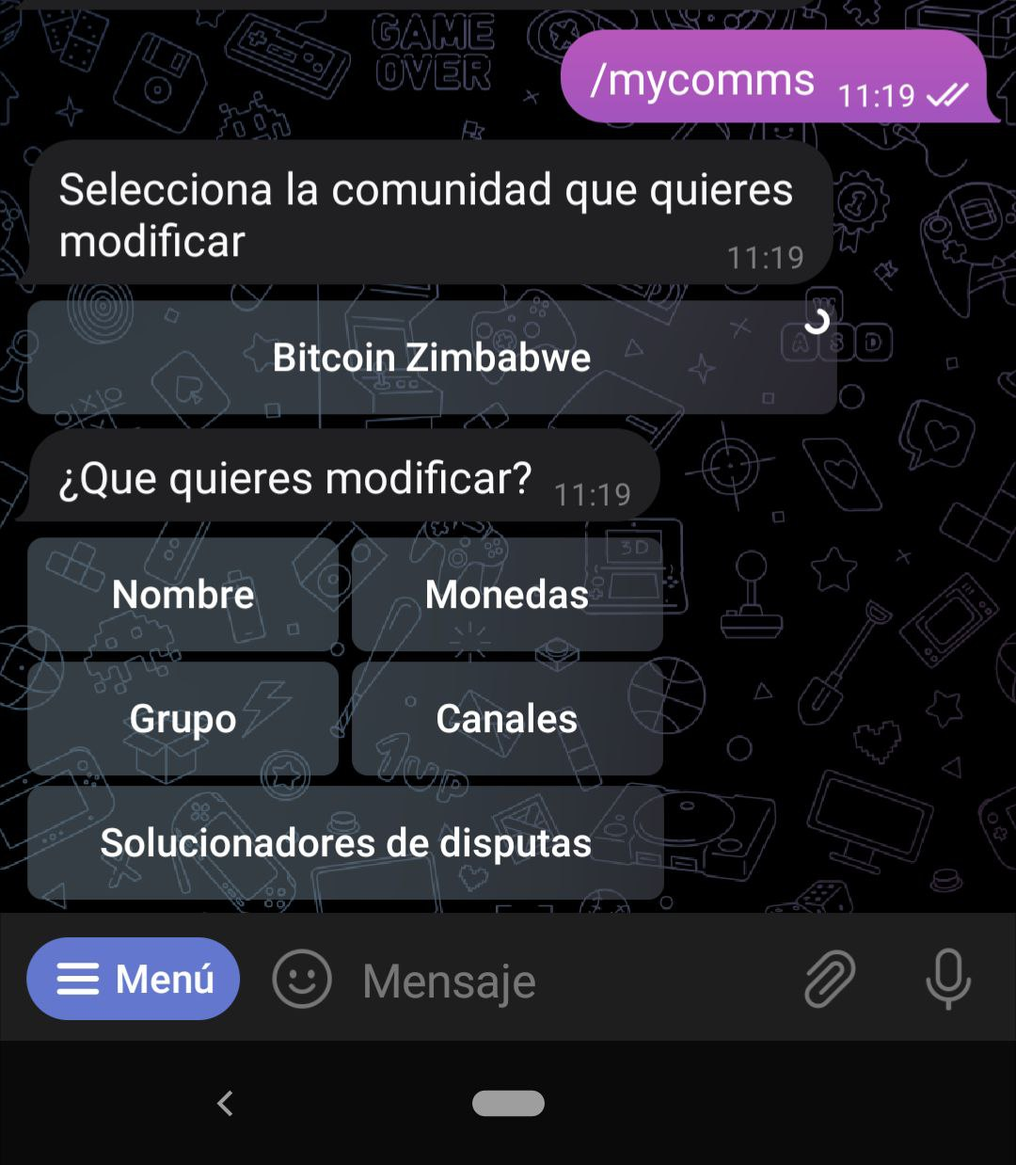
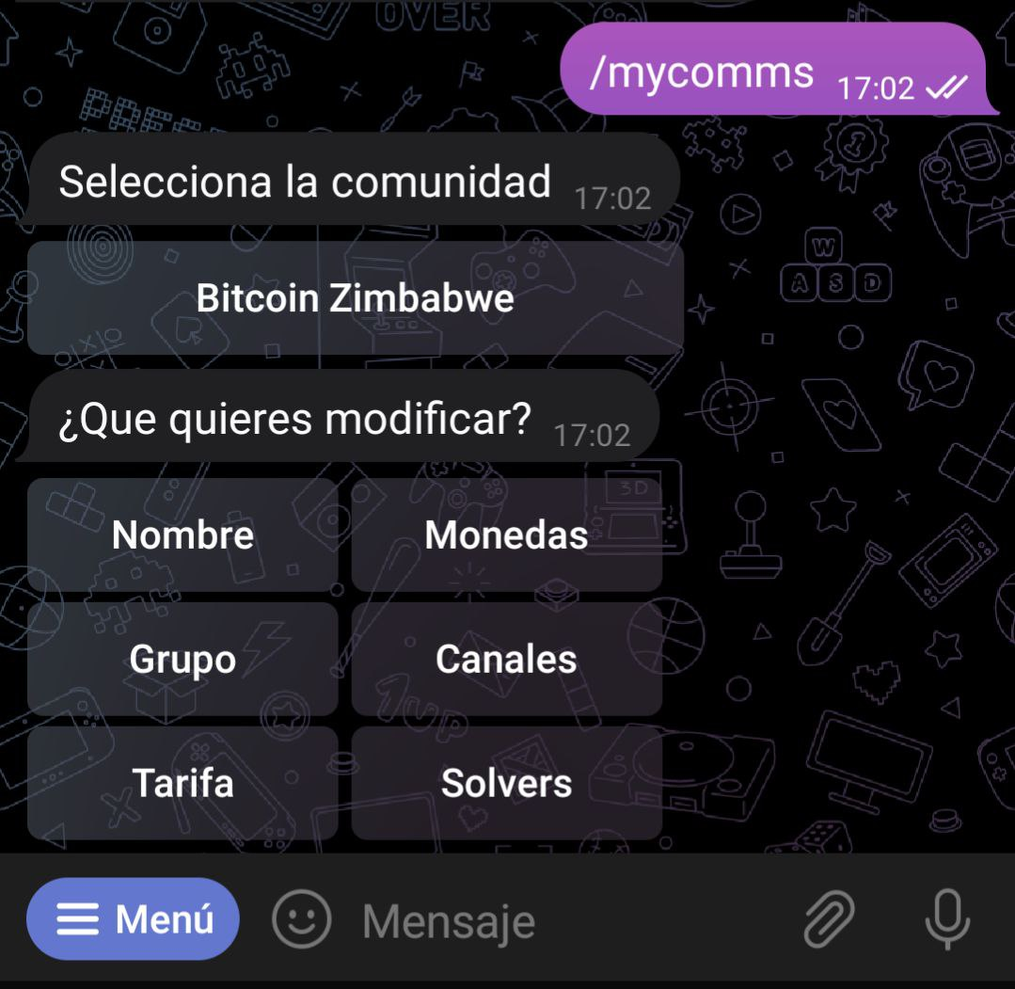
Add communities posts

diff --git a/content/blog/lnp2pbot-communities-tutorial.es.md b/content/blog/lnp2pbot-communities-tutorial.es.md
@@ -1,0 +1,156 @@
++++
+title = "Tutorial para utilizar las Comunidades en @LNp2pBot"
+description = "Poder para la gente"
+date = 2022-05-26
++++
+
+![Comunidades en @lnp2pBot](/images/communities.jpg)
+
+Finalmente las comunidades están aquí 🥳 y en este tutorial explicaré como utilizarlas.
+
+## Incentivo
+
+Antes de explicar como funciona creo que es importante explicar el sistema de incentivos de las comunidades, desde su creación [@LNp2pBot](https://t.me/lnp2pbot) le ha cobrado una tarifa al vendedor por orden completada con éxito, esta tarifa actualmente es de 0.6%, ahora, si la orden fue creada en una comunidad, el bot divide esta tarifa, una parte queda para el bot y la otra será la ganancia de la comunidad.
+
+Vamos a explicar esto en detalle con varios ejemplos:
+
+Supongamos que hemos creado la comunidad **lnp2pBot Madagascar**, la **tarifa de la comunidad** es `variable` y se le indica como un porcentaje al bot, así que el valor debe estar entre 0 y 100, para hacerlo más fácil de visualizar la `tarifa máxima` del bot la fijaremos en 1%.
+
+#### Ejemplo 1:
+
+```
+Tarifa máxima del bot: 1% (relativo al monto de la orden)
+Tarifa de la comunidad: 100%
+Orden con monto = 100000 sats
+1% = 1000 sats
+Sobre este 1% vamos a trabajar
+70% de 1000 sats irán al bot = 700
+30% de 1000 sats irán a la comunidad = 300
+
+Tarifa total que paga el vendedor 1000 sats
+```
+
+En una comunidad que cobre el 100% de su tarifa, el bot dejará de cobrar el 100% de su tarifa y bajará al 70%, el 30% restante es lo que va a la comunidad.
+
+#### Ejemplo 2:
+
+```
+Tarifa máxima del bot: 1%
+Tarifa de la comunidad: 50%
+Orden con monto = 100000 sats
+1% = 1000 sats
+70% de 1000 sats irán al bot = 700
+15% (la mitad de 30%) de 1000 sats irán a la comunidad = 150
+
+Tarifa total que paga el vendedor 850 sats
+```
+
+En este ejemplo quien se beneficia es el vendedor y podría elegir vender en esta comunidad ya que tiene que pagar una tarifa menor.
+
+#### Ejemplo 3:
+
+```
+Tarifa máxima del bot: 1%
+Tarifa de la comunidad: 0%
+Orden con monto = 100000 sats
+1% = 1000 sats
+70% de 1000 sats irán al bot = 700
+0% de 1000 sats irán a la comunidad = 0
+
+Tarifa total que paga el vendedor 700 sats
+```
+
+En este caso el vendedor obtiene un beneficio mayor.
+
+Para contrarrestar lo explicado pongo el mismo ejemplo pero sin comunidad, es decir, cualquier orden que el usuario tome del canal donde van todas las órdenes @p2pLightning.
+
+#### Ejemplo 4:
+
+```
+Tarifa máxima del bot: 1%
+Orden con monto = 100000 sats
+1% = 1000 sats
+100% de 1000 sats irán al bot = 1000
+
+Tarifa total que paga el vendedor 1000 sats
+```
+
+Acá el vendedor paga la tarifa completa al bot así que probablemente prefiera encontrar o crear una comunidad para su moneda local.
+
+## Creando una comunidad
+
+Para crear una comunidad debemos escribir o seleccionar del menú el comando `/community`, el bot te irá guiando en el proceso como lo expliqué en este [post](https://grunch.dev/es/blog/lnp2pbot-communities/) que si no lo has leido, te recomiendo que lo hagas antes de continuar esta lectura, es importante que sepas que tanto tu como el bot deben ser administradores tanto en el grupo de la comunidad como en los canales vinculados a la misma.
+
+![Creando una comunidad](/images/community-menu.jpg)
+
+## ¿Cómo puedo saber las comunidades que trabajan con mi moneda?
+
+Para esto tenemos un nuevo comando `/findcomms`, el cual recibe como parámetro el código de moneda, puede ser un código estándar **ISO 4217**, pero tambien pueden haber comunidades que operan sats contra alguna otra criptomoneda, no hay ningún tipo de limitación para el usuario, en la siguiente imagen podemos ver el resultado de `/findcomms usd`.
+
+![Buscando comunidades](/images/findcomms.jpg)
+
+## Eligiendo una comunidad
+
+Ahora solo seleccionamos la comunidad en la que queremos participar y el bot nos mostrará la cantidad de órdenes exitosas y el volúmen de comercio operado en las últimas 24 horas en esa comunidad, abajo vemos un botón que dice **Utilizar por defecto**, al tocar ese botón ya estamos participando en esa comunidad.
+
+![Seleccionando](/images/comm-detail.jpg)
+
+Ahora solo tenemos que crear una orden escribiendo el comando `/buy` o `/sell` dependiendo de lo que queramos y seguir las instrucciones del bot.
+
+![Creando una orden](/images/sell.jpg)
+
+Si queremos salir de la comunidad utilizamos comando `/setcomm off` como lo explicamos en [Comunidades en @LNp2pBot](https://grunch.dev/es/blog/lnp2pbot-communities/)
+
+## Administrando tu comunidad
+
+Para mantener una comunidad sana el admin debe estar rodeado de gente responsable que lo ayude con la tarea, aquí es donde entran los **solvers**.
+
+Los solvers simplemente son usuarios que se encargan de resolver las disputas y mantener el orden en la comunidad, una comunidad debe tener al menos un solver, para esto no hay ningún tipo de requisito, el administrador es quién los designa al crear la comunidad y puede agregar o quitar en cualquier momento, un administrador puede ser solver su propia comunidad.
+
+El admin también puede modificar cualquier campo de la comunidad en cualquier momento, por ejemplo puede comenzar una comunidad con un solo canal para que los usuarios puedan visualizar las compras y ventas, pero a medida que la comunidad crece puede cambiar esto y utilizar dos canales, uno para visualizar las compras y otro para las ventas, cambiar la tarifa de la comunidad cuando lo considere necesario.
+
+## Resolviendo disputas
+
+Cuando un usuario inicia una disputa un mensaje será enviado por el bot al canal de las disputas, solo **solvers** podrán tomarlas tocando el botón **Take dispute**.
+
+![Disputa](/images/dispute.jpg)
+
+![Detalle de la disputa](/images/dispute-detail.jpg)
+
+Una vez el **solver** toma la disputa el bot le enviará toda la información necesaria para resolver la disputa, pero también se deberá comunicar con cada parte, entender que pasó y completar la orden o cancelarla, para esto tiene dos nuevos comandos.
+
+### Completando una orden
+
+Muchas disputas se inician porque una de las dos partes tardó en responder un mensaje, pero también puede haber un vendedor que quiera quedarse con el dinero fiat y que le retornen los sats, para estos casos el **solver** puede ejecutar el comando `/settleorder`, lo que hace este comando es que acepta el pago del vendedor y automáticamente envía los sats al comprador.
+
+![Completando una orden](/images/settleorder.png)
+
+### Cancelando una orden
+
+El **solver** puede cancelar la orden lo cual retorna los sats al vendedor si lo considera correcto, para esto debe ejecutar el comando `/cancelorder` como podemos apreciar en la siguiente imagen.
+
+![Cancelando una orden](/images/cancelorder.png)
+
+### Eliminando disputas
+
+Cada vez que un usuario inicia una disputa tanto quien inició la disputa como la contraparte quedan envueltos en la misma, hasta que no sepamos que pasó los dos están relacionados por una disputa, al resolver la disputa el solver puede eliminarle esta disputa a uno de los usuarios o incluso a los dos si lo necesita con el comando `/deldispute username id-de-orden`.
+
+![Eliminando disputa](/images/deldispute.png)
+
+## Expulsar a un usuario de la comunidad
+
+Si un solver lo considera necesario puede expulsar a un usuario de la comunidad con el comando `/ban` seguido de su username.
+
+**_IMPORTANTE:_** Para ejecutar los comandos de administración de comunidades siempre tienes que tener seleccionada **por defecto** la comunidad con la que deseas trabajar, puedes hacerlo con tocando el botón **Utilizar por defecto** que se muestra luego de ejecutar `/findcomms`, tambien lo puedes hacer con el comando `/setcomm @grupo`, un grupo de telegram obtiene su **@grupo** solo cuando son públicos.
+
+## Retiro de las ganancias
+
+En las próximas semanas los administradores podrán retirar las ganancias de sus comunidades, mientras más órdenes se procesen en su comunidad mayor será el monto de sats a retirar, mantente atento que en cualquier momento verás la opción.
+
+## Conclusiones y agradecimientos
+
+Desde hace mucho tiempo he estado pensando en cómo hacer que el bot escale, se lo comenté a mucha gente esperando un **ahá moment**, hasta que llegó el momento, la idea de las comunidades la escuché por primera vez hablando con mi amiga [Ximena](https://twitter.com/XTezanosP) quién me habló de la confianza y a partir de sus ideas comencé a construir lo que tenemos hoy, otra persona que ha aportado ideas que me han ayudado en el desarrollo de las comunidades es mi amigo [Manu](https://twitter.com/manuferraritano).
+
+Muchas más personas han colaborado con el proyecto, cada quién a su manera, a todos gracias totales 🤖.
+
+Las comunidades en @lnp2pbot siguen su evolución, como ha ocurrido con el bot desde sus primeros dias, no estoy interesado en una adopción pronunciada, considero mucho más sano el crecimiento orgánico y parece ser que esta será la tendencia con el uso de las comunidades, esperamos tu feedback en [github](https://github.com/grunch/p2plnbot/issues) o en nuestro grupo de [telegram](https://t.me/lnp2pbotHelp).

diff --git a/content/blog/lnp2pbot-communities.en.md b/content/blog/lnp2pbot-communities.en.md
@@ -3,38 +3,45 @@ title = "Communities in @LNp2pBot"
 description = "Power to the people"
 date = 2022-05-04
 +++
+
 ![Communities in @lnp2pBot](/images/communities.jpg)
 
 Since we started this project we wanted to start operating with [@LNp2pBot](https://t.me/lnp2pbot) without making much noise, it was essential to test the bot in a small community before showing the world a final product, that's why We started working with the Spanish-speaking lightning community, which received the project in a very good way. The feedback received has allowed the bot to grow and improve day by day.
 
 ## Displaying user orders
+
 As the project started with a small group in which everyone shared the same language, a channel to view the orders was not a problem, so we started solving priority problems by letting the users themselves be the gauge of what was needed and when. develop it, but the time has come when the number of published orders is very large, which has led many users to ask themselves the same question.
 
 ## How can I filter the orders by my currency?
+
 One of the most recurring questions from users is how can I filter orders by my currency? There are several ways to solve this, there is always the temptation to do it the easy way and ask the developer to create a new channel and then redirect all orders of a specific currency to the new channel, but what seems easy at first glance leads to other problems.
 
 By creating currency channels centrally, the `admin` must take care of the needs of users in the most remote places on the planet, there are 175 fiat currencies globally, some countries share currencies, so potentially at some point it would be necessary to create manually more than 175 channels, but the problem remains that users must ask for permission to use their currency in a specific channel using the bot, **@lnp2pBot** faithfully follows the Bitcoin philosophy and although it is linked to telegram we seek to be "`permissionless`", without custody and above all **without KYC**.
 
 ## Communities
-This is where the communities come in, now users have much more freedom of maneuver, from now on they will be able to create and manage their own communities to buy and sell sats, limiting these operations to the fiat currencies used in the region in an autonomous way, but... *with great power comes great responsibility*, this means from the moment users start working in their own communities they will also have to manage the possible disputes that occur.
+
+This is where the communities come in, now users have much more freedom of maneuver, from now on they will be able to create and manage their own communities to buy and sell sats, limiting these operations to the fiat currencies used in the region in an autonomous way, but... _with great power comes great responsibility_, this means from the moment users start working in their own communities they will also have to manage the possible disputes that occur.
 
 ## Trust model
+
 The model we have chosen to resolve disputes is that of trust, this seems paradoxical for those of us who work with Bitcoin because we have always advocated "`trustless`" systems, and the truth is that the goal is always to develop systems where we do not have to trust anyone, but after thinking a lot about dispute resolution systems, we had to accept that you always have to trust someone for it.
 
 ## Benevolent Dictator
+
 Having accepted that to resolve a dispute you have to trust someone, our focus shifted to, how do we make there less incentive to create disputes? in this the community made several proposals and the one we are developing because at the time of writing this text it is not ready yet, is to use the figure of the benevolent dictator, this is a dictator that people accept and trust that their decisions are made for the good of the community.
 
 The benevolent dictator is the creator of the community, the benevolent dictator is the one who can add dispute solvers, these `solvers` are publicly known by the community, by this I mean their telegram username, and the community will take care of denouncing if these users are doing their work correctly or not, in a community where the benevolent dictator correctly selects the solvers everything will work fine, in one where the dictator makes mistakes his `subjects` will go to another community or create a new one, in this way we delegate this responsibility to the communities.
 
 ## How do I create a community?
+
 To create a community simply write the command `/community`, after this the bot will ask you to indicate the following:
 
-* **Community Name**: A name to identify your community.
-* **Currencies**: Fiat currencies that can operate in the community, these must be entered separately from a blank space, for example for a Uruguayan community "UYU USD" can be added.
-* **Community group**: This is the main group where community members meet, in this group both @lnp2pbot and the one who is creating the community must be administrators, users can create orders by sending bot commands in this group.
-* **Channel or channels order book**: The orders will be published where we indicate to the bot, if we enter a single channel, the purchases and sales will be published in that channel, but if you indicate two channels, the purchases will be will publish in the first and sales in the second, the channels are entered separated with a blank space, both the bot and the creator of the community must be administrators of the channels.
-* **Solvers**: We must indicate the usernames of the users who will be in charge of resolving the disputes, separated by a blank space.
-* **Channel for disputes**: In this channel the bot will publish when a user initiates a dispute, both the bot and the creator of the community must be administrators of the channel.
+- **Community Name**: A name to identify your community.
+- **Currencies**: Fiat currencies that can operate in the community, these must be entered separately from a blank space, for example for a Uruguayan community "UYU USD" can be added.
+- **Community group**: This is the main group where community members meet, in this group both @lnp2pbot and the one who is creating the community must be administrators, users can create orders by sending bot commands in this group.
+- **Channel or channels order book**: The orders will be published where we indicate to the bot, if we enter a single channel, the purchases and sales will be published in that channel, but if you indicate two channels, the purchases will be will publish in the first and sales in the second, the channels are entered separated with a blank space, both the bot and the creator of the community must be administrators of the channels.
+- **Solvers**: We must indicate the usernames of the users who will be in charge of resolving the disputes, separated by a blank space.
+- **Channel for disputes**: In this channel the bot will publish when a user initiates a dispute, both the bot and the creator of the community must be administrators of the channel.
 
 ![Creating a community](/images/community01.jpg)
 
@@ -45,13 +52,16 @@ To modify any field we simply execute the `/mycomms` command and the bot will sh
 ![Modifying a community](/images/mycomms.jpg)
 
 ## Creating orders
+
 The operation of the bot remains exactly the same, by default it creates the orders in a global channel, but since we have created a new community we want our order to be published in the channel that we have associated with the community, there are two ways to create an order in the new community.
 
 1. We enter the community group, in the case of our example it would be `@p2pZimbabwe` and within the group we execute the usual command, `/sell` or `/buy`.
 2. If we want something more private, we indicate our default community to the bot by executing the command `/setcomm @p2pZimbabwe`, from that moment all the orders that you create in private will go to the corresponding channel linked with `@p2pZimbabwe`, you can change your default community whenever you want with `/setcomm @MuchMoreCoolCommunity` or go back to the previous state, where you didn't have a default community by running `/setcomm off`.
 
 ## What's missing?
+
 Most of it is done, but it's not finished yet, the dispute sub-system is still to be finished, a command to show the communities for coins to the users is missing, and probably many other things are missing that I don't have in mind yet but they will be genuine user requirements, all this will be ready in the next few weeks.
 
 ## Conclusions
+
 The communities in @lnp2pbot is in experimental mode, so we hope that there will be bugs to fix, but as it has happened since the beginning we know that we will receive the appropriate feedback from our users to improve what we have developed so far, the next step is that the users create their own communities and everyone participates in the community(s) that suits them best, we await your feedback on [github](https://github.com/grunch/p2plnbot/issues) or in our group of [telegram](https://t.me/lnp2pbotHelpEn).

diff --git a/content/blog/lnp2pbot-communities-tutorial.en.md b/content/blog/lnp2pbot-communities-tutorial.en.md
@@ -1,0 +1,156 @@
++++
+title = "@LNp2pBot Communities tutorial"
+description = "Poder para la gente"
+date = 2022-05-26
++++
+
+![Communities in @lnp2pBot](/images/communities.jpg)
+
+Finally the communities are here 🥳 and in this tutorial I will explain how to use it.
+
+## Incentive
+
+Before explaining how it works, I think it is important to explain the community incentive system, since its creation [@LNp2pBot](https://t.me/lnp2pbot) has charged the seller a fee for successfully completed order, this fee is currently 0.6%, now, if the order was created in a community, the bot divides this fee, one part remains for the bot and the other part will be the profit of that community.
+
+Let's explain this in detail with several examples:
+
+Suppose we have created the community **lnp2pBot Madagascar**, the **community fee** is _variable_ and is indicated as a percentage to the bot, so the value must be between 0 and 100, to make it easier to visualize the `max fee` of the bot we will set it to 1%.
+
+#### Example 1:
+
+```
+Maximum bot fee: 1% (relative to the amount of the order)
+Community fee: 100%
+Order with amount = 100000 sats
+1% = 1000 sat
+On this 1% we will work
+70% of 1000 sats will go to the bot = 700
+30% of 1000 sats will go to the community = 300
+
+Total fee paid by seller 1000 sats
+```
+
+In a community that charges 100% of your fee, the bot will stop charging 100% of your fee and go down to 70%, the remaining 30% is going to the community.
+
+#### Example 2:
+
+```
+Max bot fee: 1%
+Community fee: 50%
+Order with amount = 100000 sats
+1% = 1000 sat
+70% of 1000 sats will go to the bot = 700
+15% (half of 30%) of 1000 sats will go to the community = 150
+
+Total fee paid by seller 850 sats
+```
+
+In this example, it is the seller who benefits and could choose to sell in this community since he has to pay a lower fee.
+
+#### Example 3:
+
+```
+Max bot fee: 1%
+Community fee: 0%
+Order with amount = 100000 sats
+1% = 1000 sat
+70% of 1000 sats will go to the bot = 700
+0% of 1000 sats will go to the community = 0
+
+Total fee paid by seller 700 sats
+```
+
+In this case, the seller obtains a higher profit.
+
+To counteract what has been explained, I give the same example but without community, that is, any order that the user takes from the global channel @p2pLightning.
+
+#### Example 4:
+
+```
+Max bot fee: 1%
+Order with amount = 100000 sats
+1% = 1000 sat
+100% of 1000 sats will go to the bot = 1000
+
+Total fee paid by seller 1000 sats
+```
+
+Here the seller pays the full fee to the bot so you probably prefer to find or create a community.
+
+## Creating a community
+
+To create a community we must write or select the command `/community` from the menu, the bot will guide you through the process as I explained in this [post](https://grunch.dev/es/blog/lnp2pbot-communities/) that if you have not read it, I recommend that you do so before continuing this reading, it is important that you know that both you and the bot must be administrators in the community group and in the channels linked to it.
+
+![Creating a community](/images/community-menu.jpg)
+
+## How can I know the communities that work with my currency?
+
+For this we have a new command `/findcomms`, which receives the currency code as a parameter, it can be a standard code **ISO 4217**, but there can also be communities that operate sats against some other cryptocurrency, there is no type of limitation for the user, in the following image we can see the result of `/findcomms usd`.
+
+![Finding communities](/images/findcomms.jpg)
+
+## Eligiendo una comunidad
+
+Now we select the community in which we want to participate and the bot will show us the number of successful orders and the volume traded in the last 24 hours in that community, below we see a button that says **Use by default**, when touching that button we are already participating in that community.
+
+![Choosing](/images/comm-detail.jpg)
+
+Now we just have to create an order by typing the `/buy` or `/sell` command depending on what we want and follow the bot's instructions.
+
+![Creting an order](/images/sell.jpg)
+
+If we want to leave the community we use the `/setcomm off` command as explained in [Communities in @LNp2pBot](https://grunch.dev/es/blog/lnp2pbot-communities/)
+
+## Managing your community
+
+To maintain a healthy community, the admin must be surrounded by responsible people who help him with the task, this is where the **solvers** come in.
+
+Solvers are simply users who are in charge of resolving disputes and maintaining order in the community, a community must have at least one solver, for this there is no type of requirement, the administrator is the one who designates them when creating the community and can add or remove at any time, an administrator can be a solver in his own community.
+
+The admin can also modify any field of the community at any time, for example you can start a community with a single channel so that users can view purchases and sales, but as the community grows you can change this and use two channels, one to view purchases and one for sales, change the community rate when you deem it necessary.
+
+## Solving disputes
+
+When a user initiates a dispute, a message will be sent by the bot to the dispute channel, only **solvers** will be able to take them by tapping on the **Take dispute** button.
+
+![Dispute](/images/dispute.jpg)
+
+![Dispute detail](/images/dispute-detail.jpg)
+
+Once the **solver** takes the dispute, the bot gave him all the necessary information to resolve the dispute, but he must also communicate with each party, understand what happened and complete the order or cancel it, for this he has two new commands.
+
+### Completing an order
+
+Many disputes start because one of the two parties was slow to respond to a message, but there may also be a seller who wants to keep the fiat money and have the sats returned, for these cases the **solver** can execute the command ` /settleorder`, what this command does is it accepts the payment from the seller and automatically sends the sats to the buyer.
+
+![Completing an order](/images/settleorder.png)
+
+### Canceling an order
+
+The **solver** can cancel the order which returns the sats to the seller if it considers it correct, for this it must execute the `/cancelorder` command as we can see in the following image.
+
+![Canceling an order](/images/cancelorder.png)
+
+### Eliminating disputes
+
+Every time a user initiates a dispute, both the person who initiated the dispute and the counterparty are involved in it, until we know what happened, the two are related by a dispute, by resolving the dispute the solver can eliminate this dispute to one of the users or even both if is necessary, this can be done with `/deldispute username order-id`.
+
+![Eliminating disputes](/images/deldispute.png)
+
+## Ban a user from the community
+
+If a solver deems it necessary, they can ban a user from the community with the command `/ban` followed by their username.
+
+**_IMPORTANT:_** To execute the community administration commands you always have to have selected **by default** the community with which you want to work, you can do it by tapping the button **Use by default** that is shown after executing `/findcomms`, you can also do it with the `/setcomm @group` command, a telegram group gets their **@group** only when they are public.
+
+## Withdrawal of earnings
+
+In the coming weeks the administrators will be able to withdraw the profits from their communities, the more orders are processed in their community, the greater the amount of sats to be withdrawn, stay tuned that at any time you will see the option.
+
+## Conclusions and thanks
+
+For a long time I have been thinking about how to make the bot scale, I told many people waiting for a **ahá moment**, until the time came, the idea of communities I heard for the first time talking to my friend [Ximena](https://twitter.com/XTezanosP) who told me about trust and based on her ideas I began to build what we have today, another person who his ideas have helped me in the development of communities is my friend [Manu](https://twitter.com/manuferraritano).
+
+Many more people have collaborated with the project, each in their own way, thank you all 🤖.
+
+The communities in @lnp2pbot are evolving fast, the same way the bot evolved its early days, but I am not interested in a fast adoption, I consider organic growth much healthier and it seems that this will be the trend with the use of communities, We look forward to your feedback on [github](https://github.com/grunch/p2plnbot/issues) or in our [telegram](https://t.me/lnp2pbotHelp) group.
